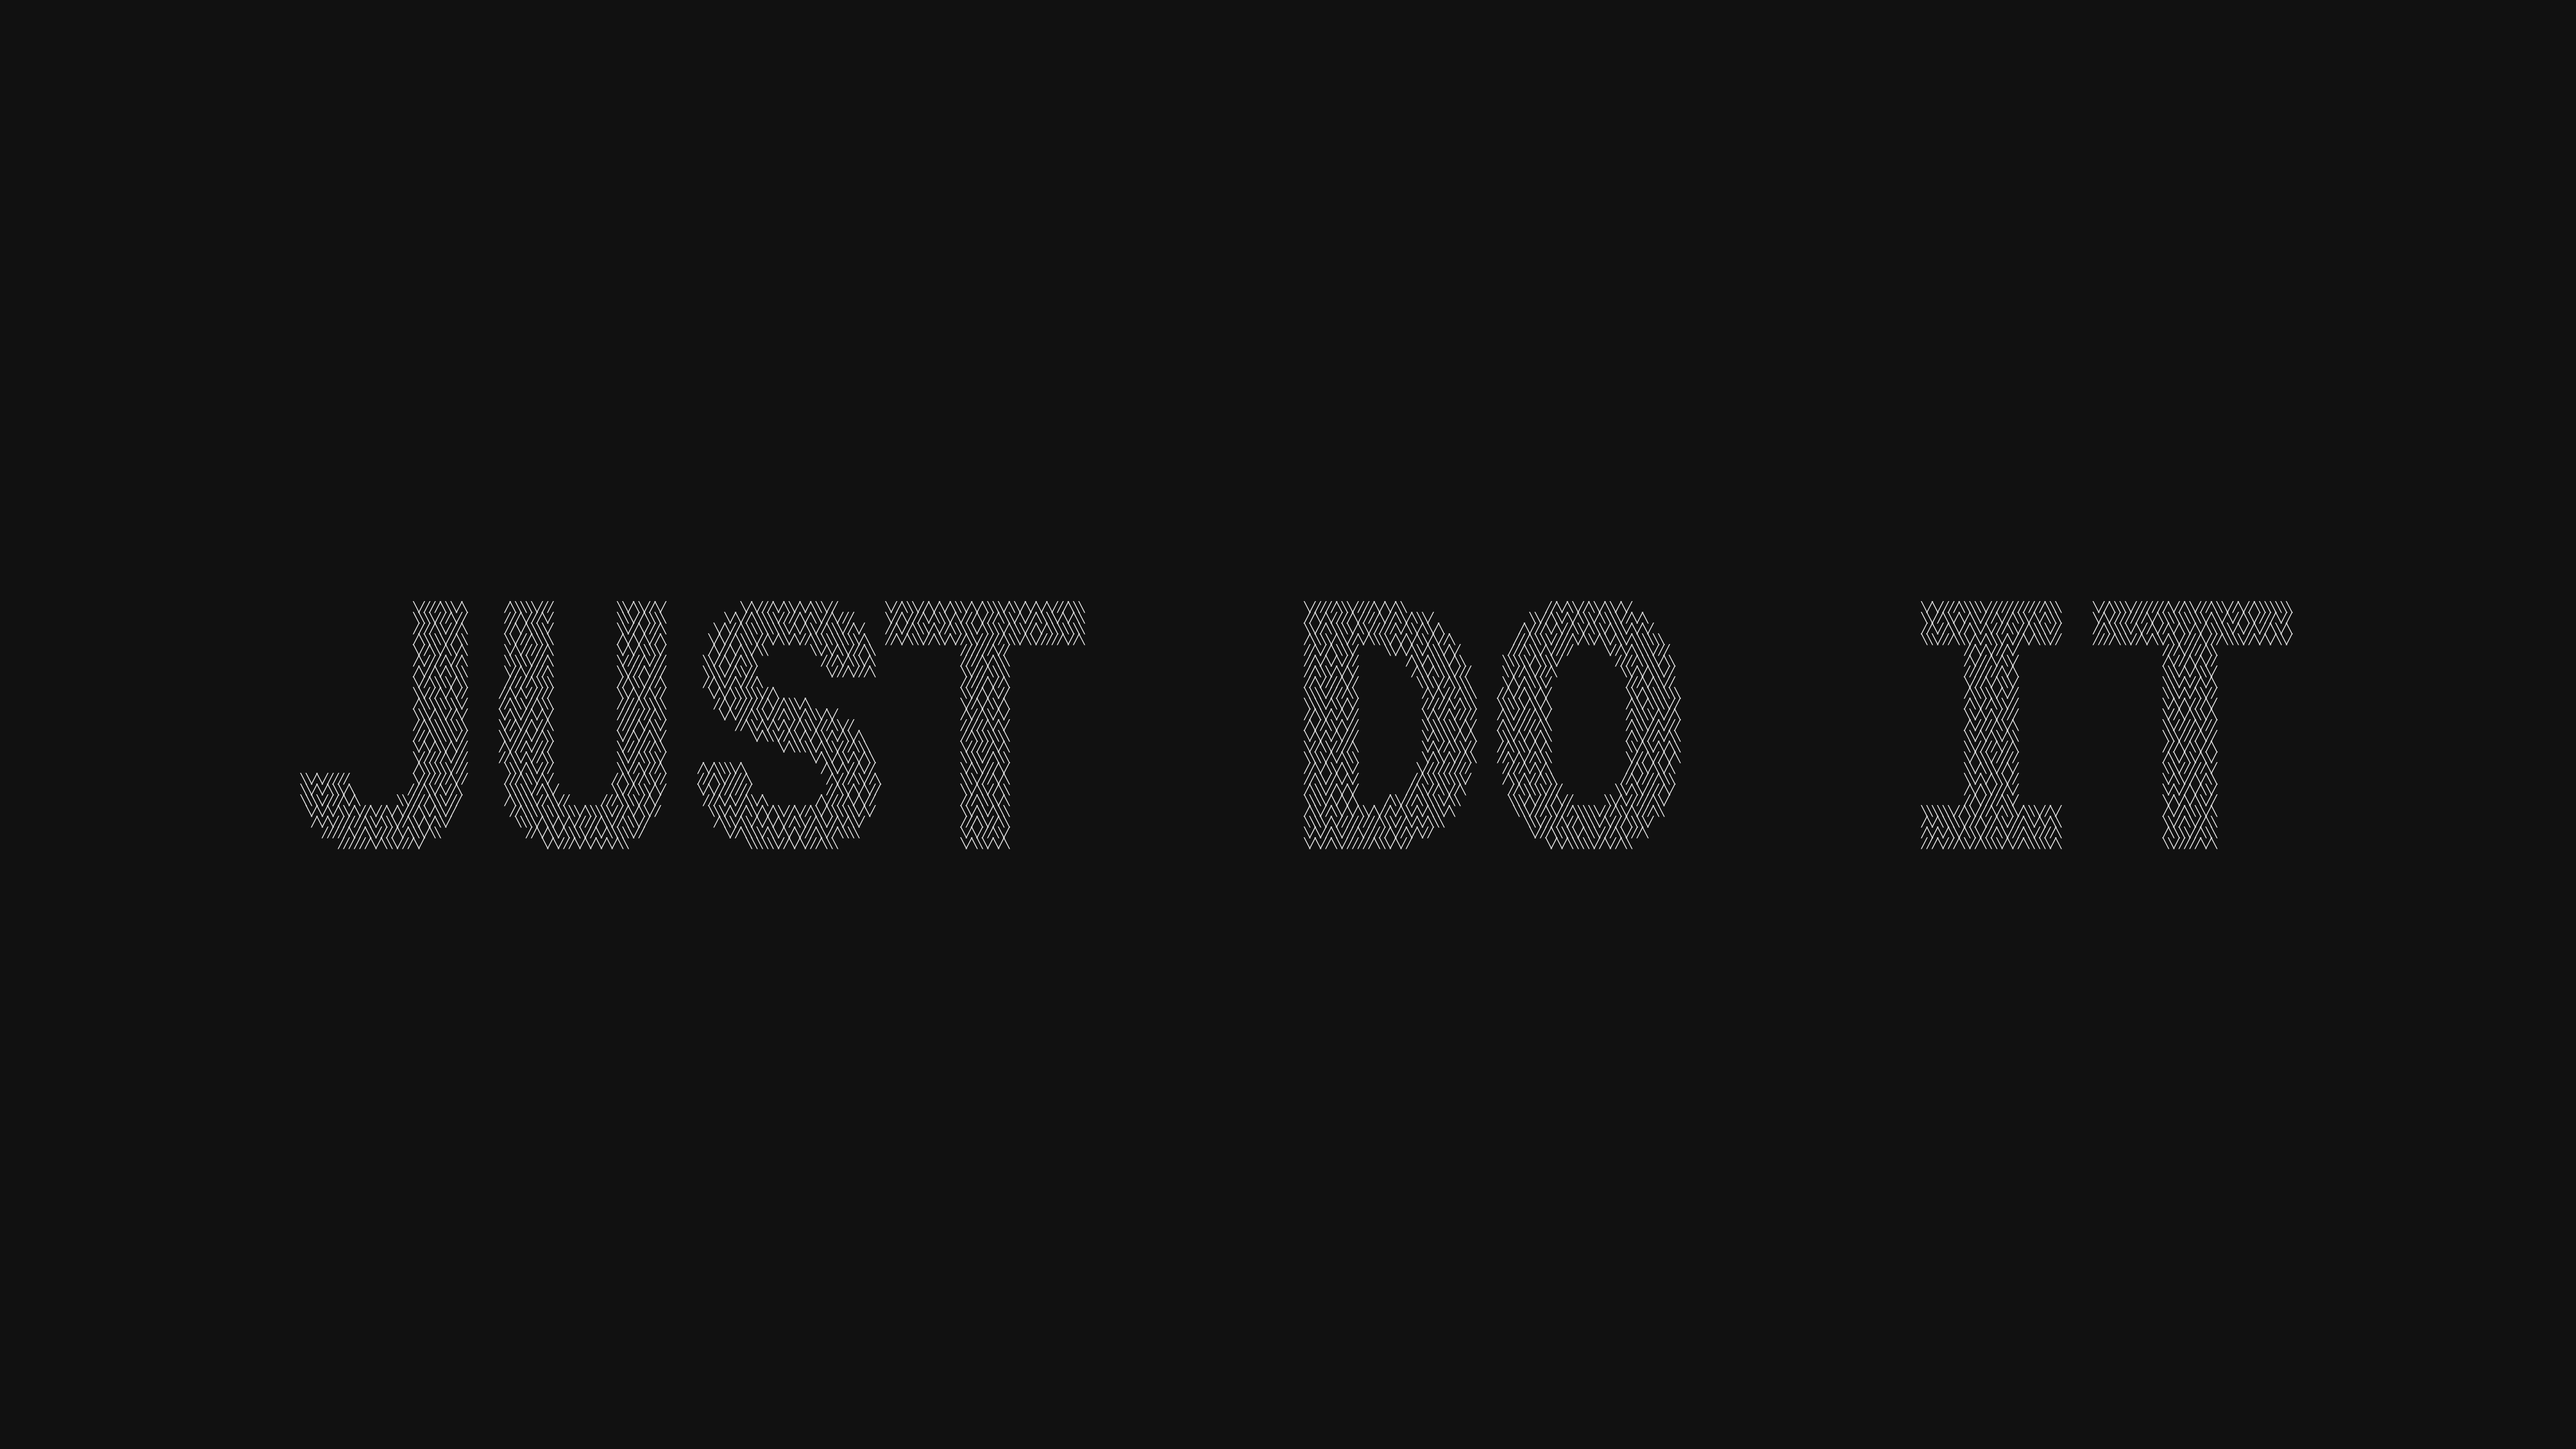
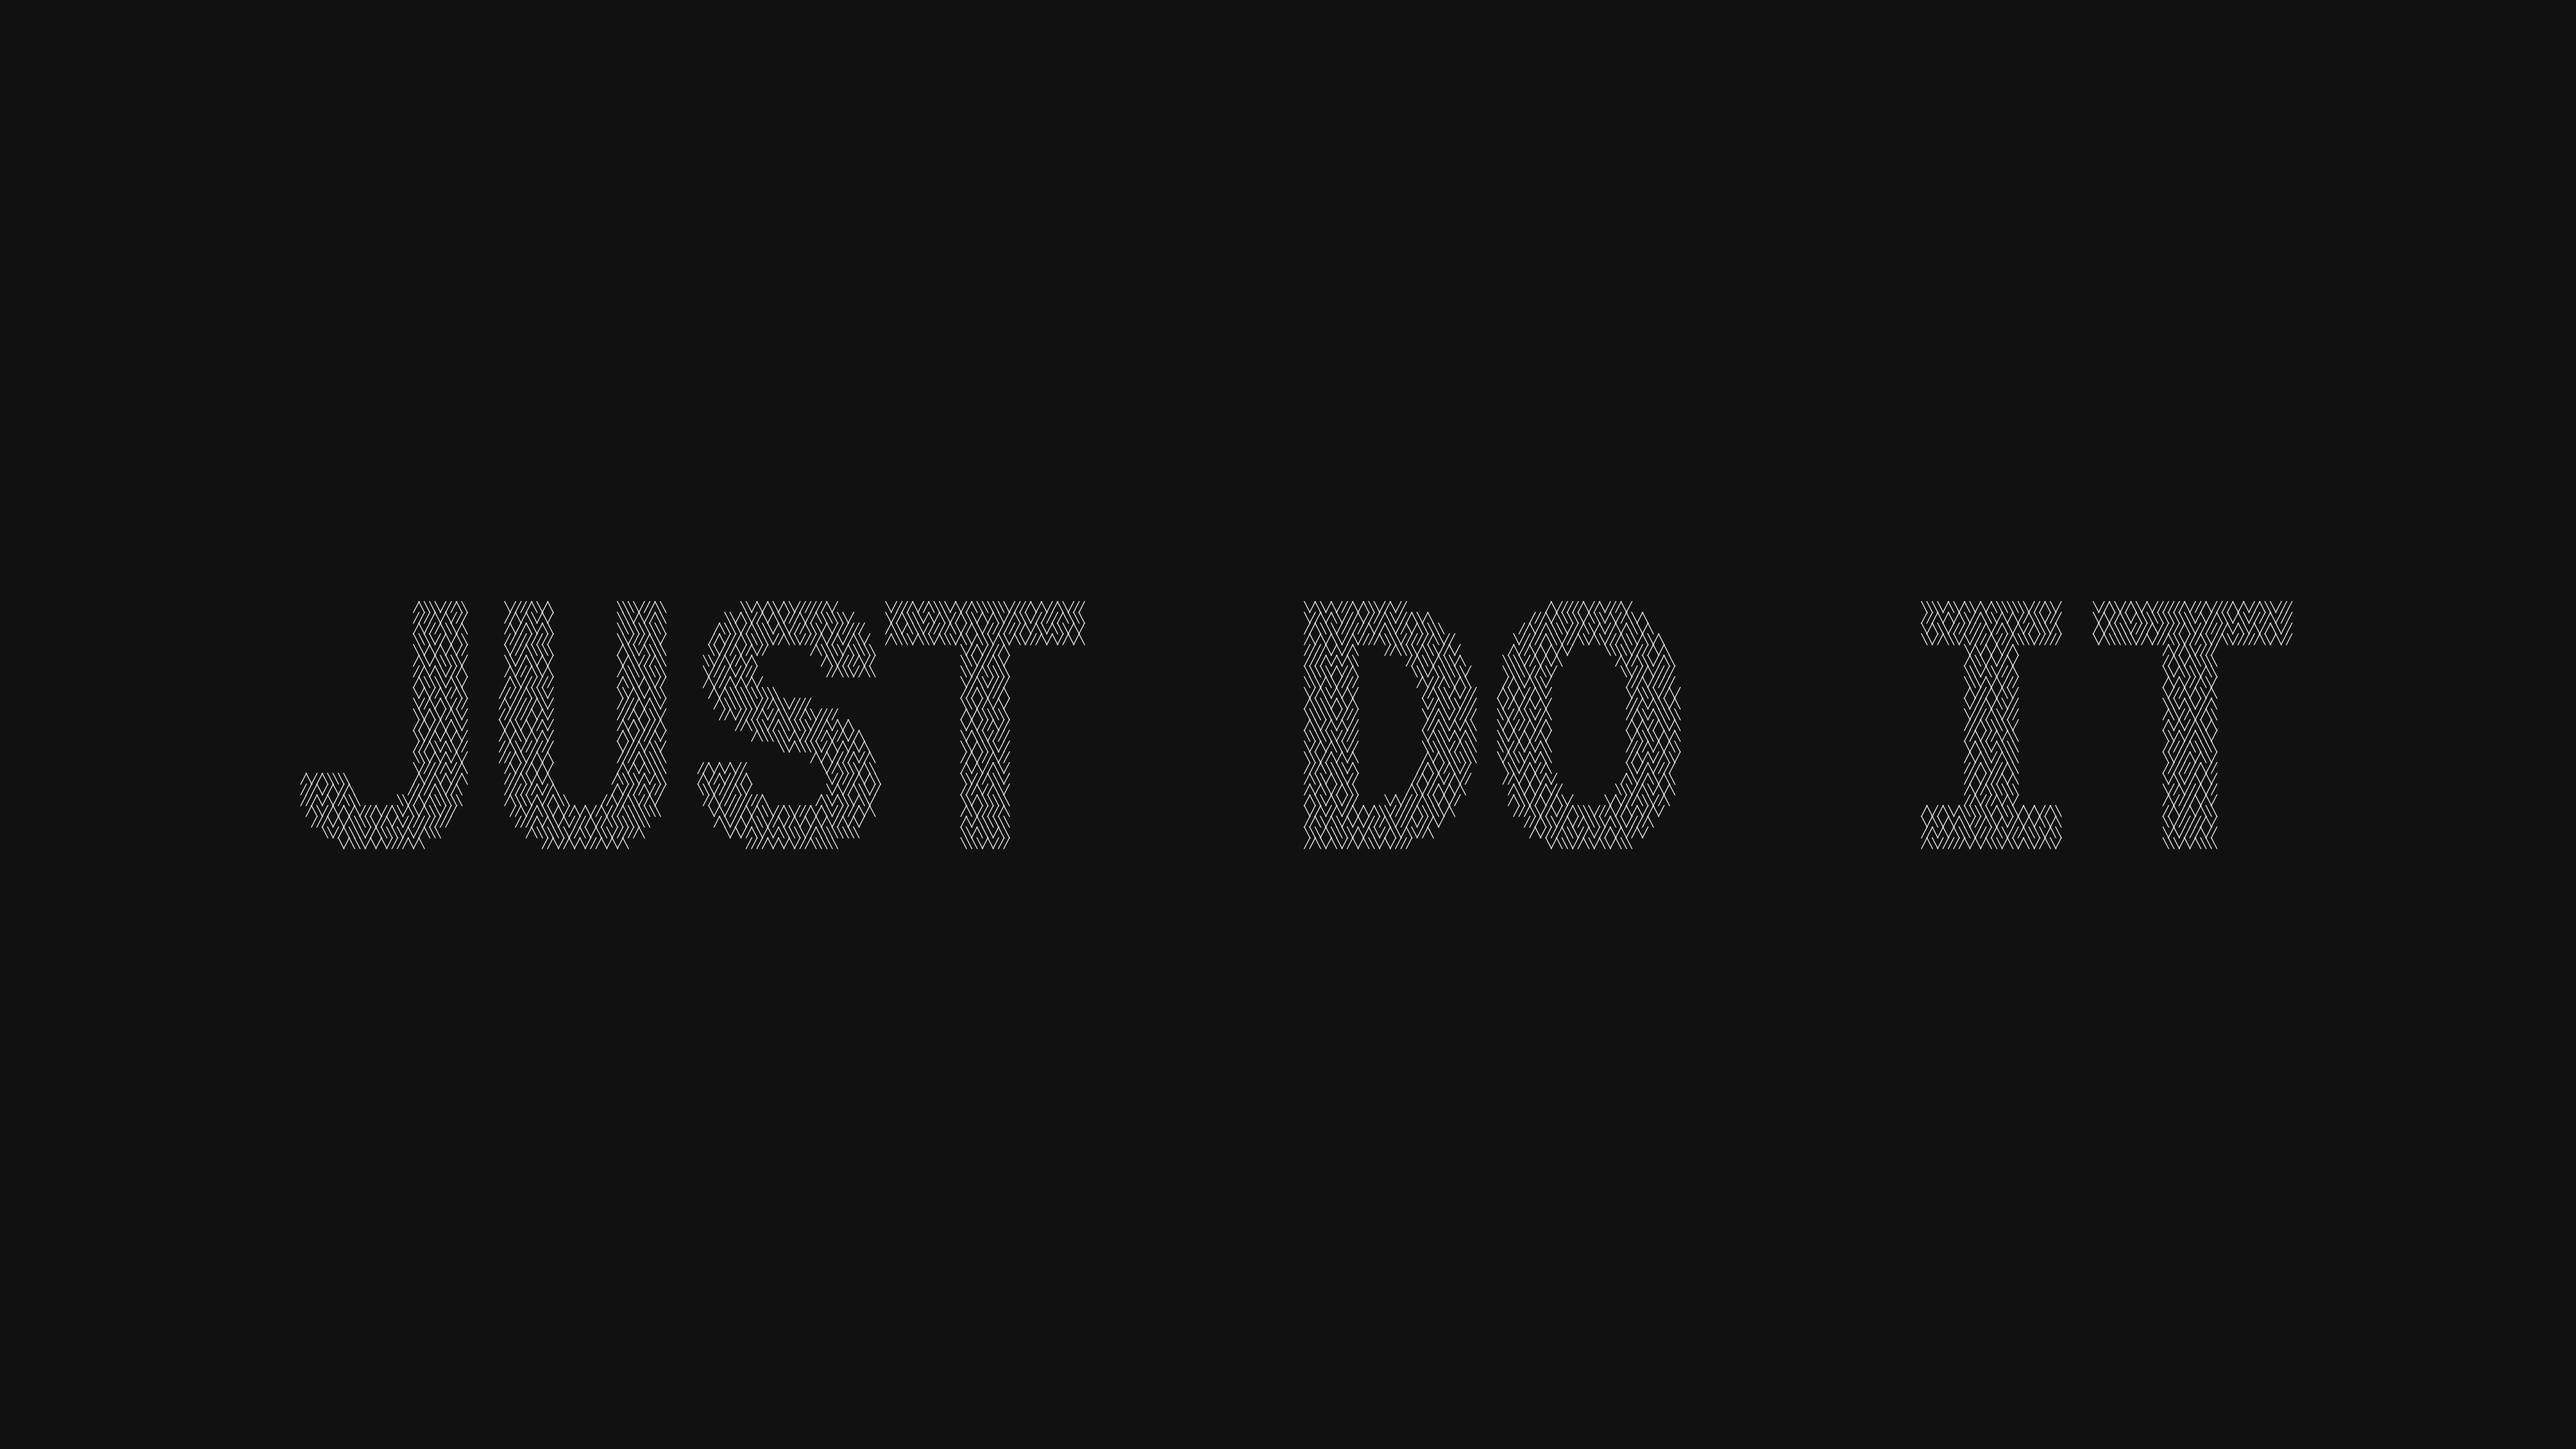
fix: SDF fill threshold — solid █ interior, crisp edge ring
Root cause: gamma curve pushes SDF values DOWN (0.98^4=0.92 still maps
to ▓ not █). Gamma was the wrong tool for this.

Fix: sdf_fill() threshold parameter — SDF >= threshold maps to densest
char (█ with block chars in DENSITY_CHARS), below threshold gets edge ramp.

- threshold=0.3: 98% █ interior, thin edge ring (S-G09-sdf default)
- threshold=0.6: 86% █ interior, wider visible edge ring (S-G09-sdf-mid)
- gamma=1.0: linear ramp, diffuse outline (S-G09-sdf-outline, unchanged)

Also: DENSITY_CHARS now includes █▓▒░ at front — density_fill and sdf_fill
both benefit from full-coverage block chars for solid interior regions.

Brightness modulation: threshold mode → interior=1.0, edge ramps [0, threshold]
so color fills (neon gradient) are full-saturation in the interior.

Tests updated: density fill now produces same chars as block (both use █);
test updated to compare SDF fill vs default instead.

diff --git a/scripts/generate_gallery.py b/scripts/generate_gallery.py
@@ -372,8 +372,9 @@ def _apply_char_fill_to_grid(
     elif fill_name == "sdf":
         from justdoit.effects.fill import sdf_fill
         from justdoit.core.glyph import mask_to_sdf
-        gamma = kw.pop("gamma", 4.0)  # default: bold interior
-        char_rows = sdf_fill(mask, gamma=gamma)
+        gamma     = kw.pop("gamma",     1.0)
+        threshold = kw.pop("threshold", 0.0)
+        char_rows = sdf_fill(mask, gamma=gamma, threshold=threshold)
         # Modulate brightness by gamma-curved SDF value so interior is full-white
         # and edge chars are visibly dimmer — creates the crisp edge ring
         sdf_vals = mask_to_sdf(mask)
@@ -386,10 +387,12 @@ def _apply_char_fill_to_grid(
                     new_row.append((" ", None))
                 else:
                     v = sdf_vals[r][c] if r < len(sdf_vals) and c < len(sdf_vals[r]) else 0.5
-                    brightness = v ** gamma  # same curve as char selection
-                    # Edge chars stay visible but dim; interior hits full white.
-                    # Floor of 0.08 keeps edge chars just barely visible.
-                    brightness = max(0.08, min(1.0, brightness))
+                    if threshold > 0.0:
+                        # Threshold mode: interior is full bright, edge ramps down
+                        brightness = 1.0 if v >= threshold else max(0.08, v / threshold)
+                    else:
+                        brightness = v ** gamma
+                        brightness = max(0.08, min(1.0, brightness))
                     rgb = tuple(int(ch_v * brightness) for ch_v in fg)
                     new_row.append((ch, rgb))
             result.append(new_row)
@@ -957,11 +960,12 @@ def _curated_entries_g09(
     _strategy_c = [
         ("S-G09-density", "G09+F01 — Density (hi-res)", "density", {}),
         # SDF gamma=4.0: bold solid interior, thin crisp edge ring
-        ("S-G09-sdf",         "G09+F06 — SDF bold interior",      "sdf", {"gamma": 4.0}),
+        # SDF threshold=0.3: solid █ interior, crisp edge ramp
+        ("S-G09-sdf",         "G09+F06 — SDF bold interior",      "sdf", {"threshold": 0.3}),
         # SDF gamma=1.0: linear gradient, classic diffuse outline effect
         ("S-G09-sdf-outline", "G09+F06 — SDF outline (linear)",   "sdf", {"gamma": 1.0}),
-        # SDF gamma=2.5: mid-point — visible gradient + readable interior
-        ("S-G09-sdf-mid",     "G09+F06 — SDF gradient (gamma 2.5)", "sdf", {"gamma": 2.5}),
+        # SDF threshold=0.6: thinner edge ring, tighter threshold
+        ("S-G09-sdf-mid",     "G09+F06 — SDF thin ring (threshold 0.6)", "sdf", {"threshold": 0.6}),
         ("S-G09-shape",   "G09+F07 — Shape (hi-res)",   "shape",  {}),
     ]
     for stem, label, fill_name, fkw in _strategy_c:
@@ -978,7 +982,7 @@ def _curated_entries_g09(
     print("    G09 Strategy C: sdf-neon ...")
     add("S-G09-sdf-neon", "G09+F06 — SDF + neon",
         _apply_char_fill_to_grid(base_grid, "sdf",
-                                 fill_kwargs={"gamma": 4.0},
+                                 fill_kwargs={"threshold": 0.3},
                                  color_fn=lambda g: _apply_gradient_color(g, grid_cols, grid_rows,
                                                                           "diagonal",
                                                                           [(0, 255, 200), (255, 0, 255)])))

diff --git a/justdoit/effects/fill.py b/justdoit/effects/fill.py
@@ -21,7 +21,10 @@ __author__ = ["jGalloway"]
 _LOGGER = _logging.getLogger(_MODULE_NAME)
 
 # Darkest to lightest — 12 density levels.
-DENSITY_CHARS: str = "@#S%?*+;:,. "
+# Density ramp: densest (full coverage) → lightest → space
+# Block elements prepended so solid-interior cells map to █ (100% coverage)
+# rather than @ (~34% coverage). Makes fills appear bright and solid.
+DENSITY_CHARS: str = "\u2588\u2593\u2592\u2591@#S%?*+;:,. "
 
 
 # -------------------------------------------------------------------------
@@ -54,22 +57,40 @@ def sdf_fill(
     mask: list,
     density_chars: Optional[str] = None,
     gamma: float = 1.0,
+    threshold: float = 0.0,
 ) -> list:
     """Fill using signed distance field — natural outline and shading effect.
 
     Computes the SDF of the mask (edge ≈ 0.5, interior → 1.0, exterior → 0.0),
-    applies an optional gamma curve, then applies density_fill.
+    optionally applies a threshold and/or gamma curve, then applies density_fill.
 
-    gamma > 1.0 biases the gradient toward the interior (more full-density chars
-    in the centre, sharper falloff at edges). gamma=2.5-3.0 gives a bold interior
-    with a narrow edge ring. gamma=1.0 is linear (default, existing behaviour).
+    threshold > 0: cells with SDF >= threshold use the densest char (█);
+    cells below threshold use the normal density ramp. Produces a bold solid
+    interior with a crisp edge ring of lighter chars.
+    e.g. threshold=0.5 fills everything > halfway from edge with █.
+
+    gamma > 1.0 (without threshold): biases the ramp toward the interior.
+    gamma=1.0 is linear (default, original behaviour).
 
     :param mask: 2D list of floats from glyph_to_mask() — values 0.0–1.0.
     :param density_chars: Darkest-to-lightest char sequence (default: DENSITY_CHARS).
     :param gamma: Curve exponent applied to SDF values before density mapping.
+    :param threshold: SDF threshold above which the densest char is used (0=off).
     :returns: List of strings — one per row, same shape as input mask.
     """
     sdf = mask_to_sdf(mask)
+    if threshold > 0.0:
+        # Threshold mode: solid interior + narrow edge ramp
+        chars = density_chars if density_chars is not None else DENSITY_CHARS
+        densest = chars[0]  # █ when block chars are in the ramp
+        # Build modified SDF: above threshold → 1.0 (maps to densest char)
+        # below threshold → rescale [0, threshold] → [0, 0.9] for edge ramp
+        scale = 0.9 / threshold if threshold > 0 else 1.0
+        sdf = [[
+            1.0 if v >= threshold else v * scale
+            for v in row
+        ] for row in sdf]
+        return density_fill(sdf, density_chars)
     if gamma != 1.0:
         sdf = [[v ** gamma for v in row] for row in sdf]
     return density_fill(sdf, density_chars)

diff --git a/tests/test_fill.py b/tests/test_fill.py
@@ -66,6 +66,8 @@ def test_render_with_fill():
 
 
 def test_render_fill_vs_default():
+    # density fill should produce the same characters as block (both use █ for solid cells)
+    # but SDF fill should differ since it varies by distance from edge
     default_out = render('HI')
-    density_out = render('HI', fill='density')
-    assert default_out != density_out
+    sdf_out = render('HI', fill='sdf')
+    assert default_out != sdf_out, "SDF fill should differ from plain block render"
